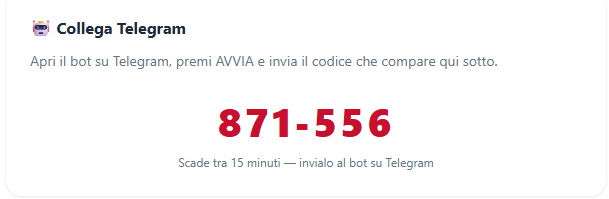
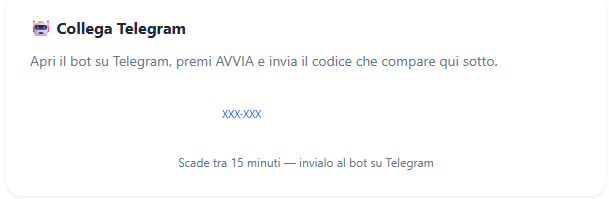
Infografica: codice esempio oscurato nell'immagine (XXX-XXX) e nei testi

Changed region(s): [[0.3432, 0.5427, 0.6552, 0.6935]]

diff --git a/infografica-telegram.html b/infografica-telegram.html
@@ -35,7 +35,7 @@
   .immagini figcaption { font-size: 12px; color: #64748B; margin-top: 6px; }
   .bolla { max-width: 420px; margin: 14px auto 0; background: #EFF3F6; border-radius: 14px; padding: 12px 16px; font-size: 15px; line-height: 1.5; box-shadow: 0 1px 3px rgba(30,41,59,0.12); }
   .bolla b { color: #059669; }
-  .chat-codice { display: inline-block; background: #ffffff; border: 1px solid #CBD5E1; border-radius: 14px 14px 14px 4px; padding: 8px 14px; margin-top: 10px; font-size: 18px; font-weight: 800; letter-spacing: 2px; color: #2563EB; box-shadow: 0 1px 3px rgba(30,41,59,0.12); }
+  .chat-codice { display: none; }
   .sezione-titolo { margin: 40px 0 18px; text-align: center; }
   .sezione-titolo span { background: #B22222; color: #ffffff; padding: 8px 28px; border-radius: 999px; font-size: 15px; font-weight: 700; letter-spacing: 1px; }
   .silenzioso { display: flex; gap: 16px; flex-wrap: wrap; }
@@ -89,7 +89,7 @@
     <div class="numero-cella"><div class="numero">3</div></div>
     <div class="box">
       <h2>Il tuo codice a 6 cifre</h2>
-      <p>Compare un codice (esempio: <b>871-556</b>). Vale <b>15 minuti</b> e si può usare <b>una volta sola</b>. Se scade, basta generarne uno nuovo.</p>
+      <p>Compare un codice di <b>6 cifre</b> come nell'immagine. Vale <b>15 minuti</b> e si può usare <b>una volta sola</b>. Se scade, basta generarne uno nuovo.</p>
       <div class="immagini">
         <figure><img src="assets/Pagina codice 6 cifre.png" alt="Codice di collegamento a 6 cifre"><figcaption>Il codice appare qui — vale 15 minuti</figcaption></figure>
       </div>
@@ -114,8 +114,7 @@
     <div class="numero-cella"><div class="numero">5</div></div>
     <div class="box">
       <h2>Invia il codice</h2>
-      <p>Scrivi nella chat del bot il codice che vedi nell'app (esempio: <b>871-556</b>) e invialo. Se il codice è scaduto o non lo trovi più, genera un codice nuovo dall'app e invia quello.</p>
-      <div class="chat-codice">871-556</div>
+      <p>Scrivi nella chat del bot il codice che vedi nell'app e invialo. Se il codice è scaduto o non lo trovi più, genera un codice nuovo dall'app e invia quello.</p>
     </div>
   </div>
   <div class="freccia-giu" style="text-align:center; margin-left:28px;">↓</div>
